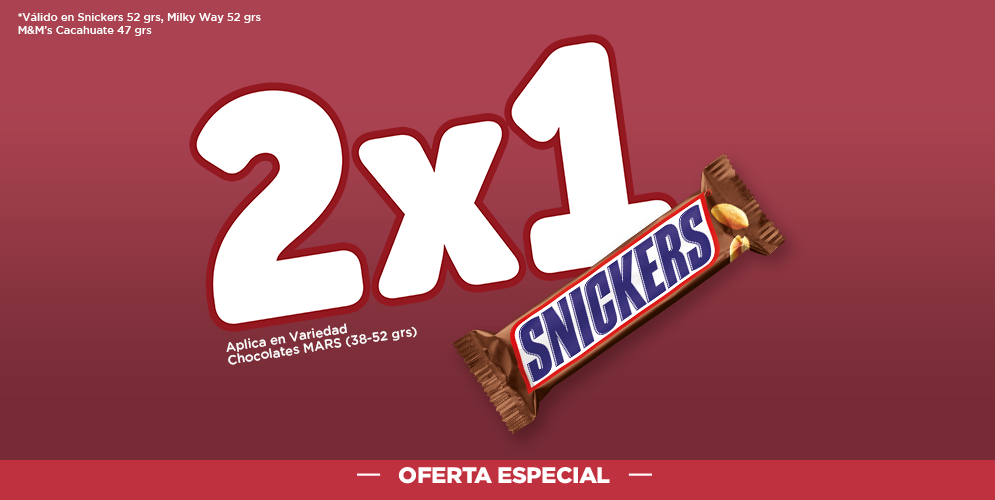
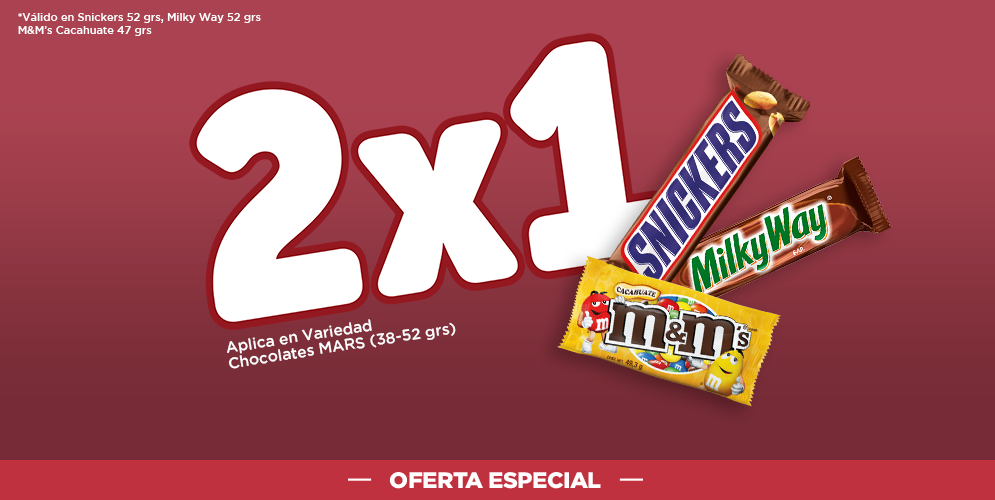
Corrección de errores
Se corrigen los errores en artes.

diff --git a/index.html b/index.html
@@ -25,7 +25,7 @@
     <!-- FB Metas -->
     <meta property="og:title" content="OXXO | San Valentín" />
 	<meta property="og:url" content="http://oxxo.cameo.mx/sanvalentin/" />
-	<meta property="og:image" content="http://oxxo.cameo.mx/sanvalentin/img/socialfb.png" />
+	<meta property="og:image" content="http://oxxo.cameo.mx/sanvalentin/img/socialshare.png" />
 	<meta property="og:site_name" content="OXXO | San Valentín #AmoCuando" />
 	<meta property="og:description" content="#AmoCuando compartimos juntos."/>
 	
@@ -35,7 +35,7 @@
 	<meta name="twitter:creator" content="@la_jennylove">
 	<meta name="twitter:title" content="OXXO | San Valentín">
 	<meta name="twitter:description" content="#AmoCuando compartimos juntos.">
-	<meta name="twitter:image" content="http://oxxo.cameo.mx/sanvalentin/img/socialfb.png">
+	<meta name="twitter:image" content="http://oxxo.cameo.mx/sanvalentin/img/socialshare.png">
 	
 	<!-- Google WMT -->
 	<meta name="google-site-verification" content="_oFs12YO7kBWUFKkr6kgwTtjA7rLc7Y6eQn3vN54ba0" />
@@ -56,6 +56,7 @@
 	</script>
     
   </head>
+  
   <body>
 	  
     <div class="section">
@@ -63,19 +64,19 @@
         
         <!-- spacer -->
         <div class="row">
-          <div class="col-md-12"><br><br><br></div>
+          <div class="col-md-12"><br><br></div>
         </div>
         
         
         <!-- Header -->
         <div class="row">
-          <div class="col-md-1"></div>
+          <div class="col-md-2"></div>
           <div class="col-md-3">
-	          <img src="img/logo.png" class="img-responsive">
+	          <img src="img/logo.png" class="img-responsive  center-block">
           </div>
-          <div class="col-md-4"></div>
+          <div class="col-md-2"></div>
           <div class="col-md-3">
-	          <img src="img/ht.png" class="img-responsive">
+	          <img src="img/ht.png" class="img-responsive  center-block">
 	          <br><br>
 	          <div id="redes_sociales">
 		          <a href="https://twitter.com/Tiendas_OXXO" target="_blank"><div id="twitter"></div></a>
@@ -84,12 +85,12 @@
 		          <a href="https://www.youtube.com/user/tiendaoxxo" target="_blank"><div id="youtube"></div></a>
 	          </div>
           </div>
-          <div class="col-md-1"></div>
+          <div class="col-md-2"></div>
         </div>
         
         <!-- spacer -->
         <div class="row">
-          <div class="col-md-12"><br><br><br></div>
+          <div class="col-md-12"><br><br></div>
         </div>
         
         <!-- Slider -->
@@ -97,9 +98,12 @@
 	      <div class="col-md-2"></div>
           <div class="col-md-8 ">
 	        	<div id="cs-slider">
-					<img src="img/slide1.png" title="Autum"/>
-					<img src="img/slide2.png" title="Winter"/>
-				</div>
+					<img src="img/slide1.png" title="slide1">
+					<img src="img/slide2.png" title="slide2">
+					<img src="img/slide3.png" title="slide3">
+					<img src="img/slide4.png" title="slide4">
+					<img src="img/slide5.png" title="slide5">
+	        	</div>
 				
 				<div id="love"></div>
 				<div id="mm_verde"></div>
@@ -110,8 +114,20 @@
         
         <!-- spacer -->
         <div class="row">
+          <div class="col-md-4"></div>
+          <div class="col-md-4">
+	          <br>
+	          <img src="img/legales.png" class="img-responsive center-block">
+          </div>
+          <div class="col-md-4"></div>
+        </div>
+        
+        <!-- spacer -->
+        <div class="row">
           <div class="col-md-12"><br><br><br><br></div>
         </div>
+        
+        
         
       </div>
     </div>
@@ -136,5 +152,7 @@
 			});
 	</script>
     
-  </body>
+  
+</body>
+  
 </html>

diff --git a/css/style.css b/css/style.css
@@ -7,32 +7,33 @@ body{
 
 #love{
 	background: url(../img/love_me.png) no-repeat;
-	width: 179px; 
-	height: 136px;
-	position: absolute;
-	top: -33px;
-    right: -33px;
+	background-size: contain;
+	width: 121px;
+    height: 92px;
+    position: absolute;
+    top: -20px;
+    right: -9px;
 	
 }
 
 #mm_verde{
-	background: url(../img/mm_verde.png) no-repeat;
+	background: url(../img/chocolates.png) no-repeat;
 	background-size: contain;
-	width: 190px;	/* 234px */
-    height: 238px;	/* 293px */
-	position: absolute;
-    bottom: -124px;
-    left: -55px;
+	width: 163px;
+    height: 167px;
+    position: absolute;
+    bottom: -53px;
+    left: -4px;
 }
 
 #mm_rojo{
-	background: url(../img/mm_rojo.png) no-repeat;
+	background: url(../img/mms.png) no-repeat;
 	background-size: contain;
-	width: 230px;	/* 304px */
-	height: 316px;	/* 418px */
-	position: absolute;
-	bottom: -150px;
-    right: -55px;
+	width: 190px;
+    height: 156px;
+    position: absolute;
+    bottom: -50px;
+    right: -21px;
 }
 
 @media (max-width: 480px) {
@@ -48,7 +49,7 @@ body{
 	#mm_rojo{
 		background-size: contain;
 		width: 90px;
-		height: 113px;
+		height: 104px;
 		bottom: -55px;
 		right: 0px;
 		}
@@ -57,7 +58,7 @@ body{
 		background-size: contain;
 		width: 70px;
 		height: 88px;
-		bottom: -60px;
+		bottom: -35px;
 		left: 15px;
 		}
 	
@@ -66,17 +67,19 @@ body{
 
 #redes_sociales{
 	background:  url(../img/rrss.png) no-repeat;
-	width: 282px;
-	height: 61px;	
+	background-size: contain;
+	width: 256px;
+    height: 48px;
+    margin: 0 auto;	
 }
 
 #twitter{
-	width: 45px;
-    height: 45px;
+	width: 23px;
+    height: 23px;
     position: relative;
     float: left;
-    top: 9px;
-    left: 6px;
+    top: 13px;
+    left: 4px;
 	/*
 	background: white;
 	opacity: 0.3;
@@ -84,12 +87,12 @@ body{
 }
 
 #instagram{
-	width: 45px;
-    height: 45px;
+	width: 23px;
+    height: 23px;
     position: relative;
     float: left;
-    top: 9px;
-    left: 34px;
+    top: 13px;
+    left: 24px;
 	/*
 	background: white;
 	opacity: 0.3;
@@ -97,12 +100,12 @@ body{
 }
 
 #facebook{
-	width: 45px;
-    height: 45px;
+	width: 23px;
+    height: 23px;
     position: relative;
     float: left;
-    top: 9px;
-    left: 65px;
+    top: 13px;
+    left: 44px;
 	/*
 	background: white;
 	opacity: 0.3;
@@ -110,12 +113,12 @@ body{
 }
 
 #youtube{
-	width: 45px;
-    height: 45px;
+	width: 23px;
+    height: 23px;
     position: relative;
     float: left;
-    top: 9px;
-    left: 97px;
+    top: 14px;
+    left: 67px;
 	/*
 	background: white;
 	opacity: 0.3;

diff --git a/css/classic/cubeslider.css b/css/classic/cubeslider.css
@@ -34,7 +34,7 @@
 	height:45px;
 	position:absolute;	
 	border-radius:6px;
-	background-image:url(images.png);
+	background-image:url(images_.png);
 	background-color:rgba(0,0,0,0.3);
 	cursor:pointer;
 	top:50%;
